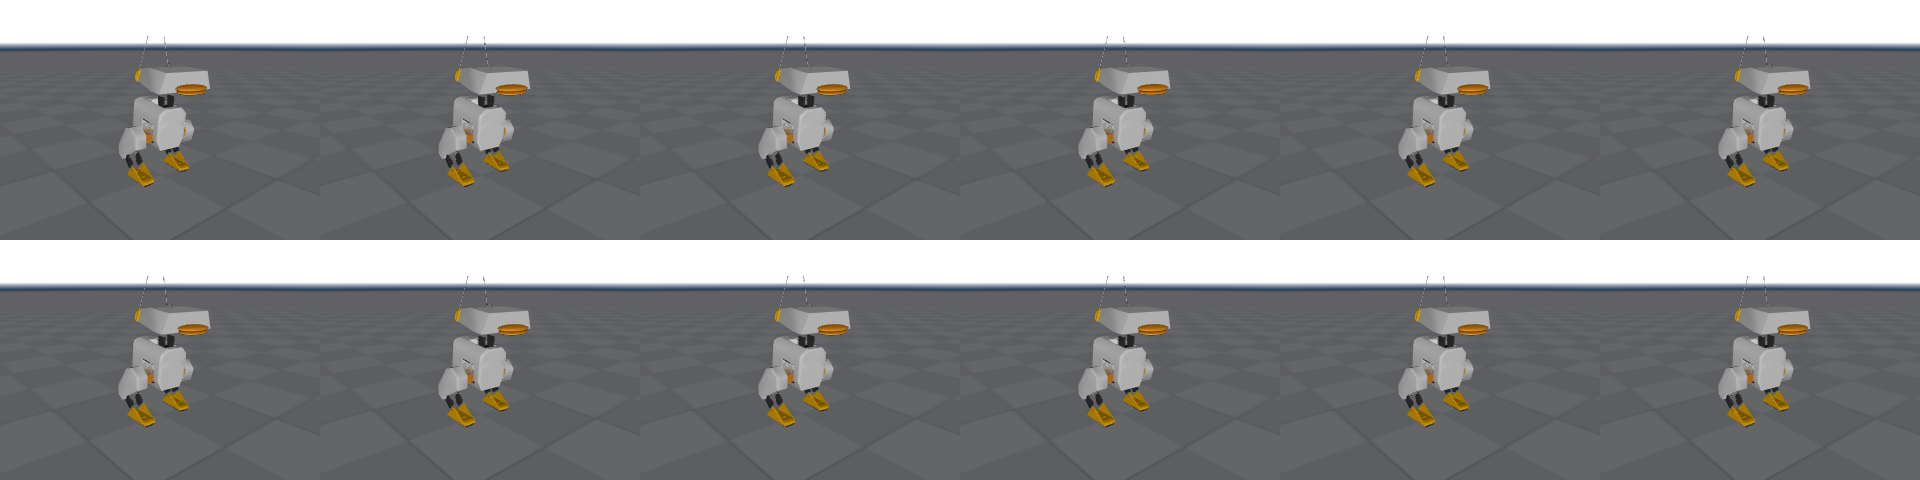
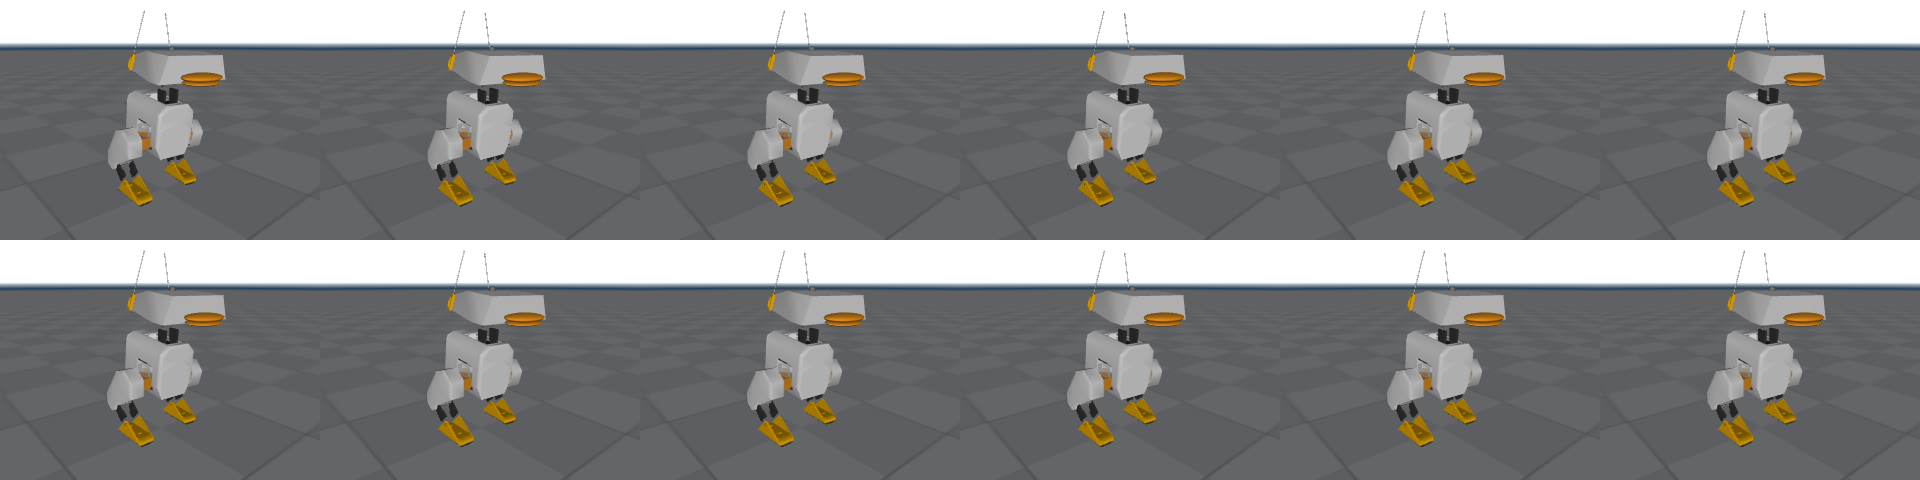
duckbody: ONNX export of skill brains and the onboard runtime, with tests
package.py bakes VecNormalize (mean/var/clip, SB3 epsilon) and the deterministic
actor into one ONNX graph (raw obs 60 -> action 11 in [-1,1]), checks it against
SB3 on 1000 SkillEnv observations (stand: max diff 1.2e-07) and writes
policy.onnx, model.json and MODEL.md per models/mid-<skill>/ (--skill, --all,
--from, --models).

runtime.py is the duck's controller: loads every brain, builds SkillEnv's
observation from a small sensor backend (SimBackend = MuJoCo), runs the current
skill at 50 Hz, command()/look()/say()/hear() for the personality layer, and
falls back to stand for skills without a brain yet. --demo runs a scripted show
(per-phase upright report, video + frame strip in duckbody/renders/).

test_runtime.py: obs equals SkillEnv's, ONNX equals SB3, command switching,
head rate limit, jaw follows audio, text commands.

Claude-Session: https://claude.ai/code/session_01JSSeToySaWWcdQvH7MCXQD

diff --git a/duckbody/test_runtime.py b/duckbody/test_runtime.py
@@ -1,0 +1,176 @@
+"""Tests for the onboard runtime and the ONNX export.
+
+    MUJOCO_GL=osmesa python duckbody/test_runtime.py        # needs models/mid-stand/policy.onnx (package.py)
+"""
+import sys
+import unittest
+from pathlib import Path
+
+import numpy as np
+
+HERE = Path(__file__).resolve().parent
+sys.path.insert(0, str(HERE))
+
+import runtime as rtm  # noqa: E402
+from mouth import MAX_OPEN, MouthSync, demo_voice  # noqa: E402
+from skills_env import SkillEnv  # noqa: E402
+
+STAND = rtm.MODELS / "mid-stand"
+
+
+class Stub:
+    """A fake brain: fixed small action, so tests don't depend on which skills are trained yet."""
+
+    def __init__(self, value=0.05):
+        self.value = value
+
+    def __call__(self, obs):
+        return np.full(11, self.value) * np.sin(obs[:11] * 10)
+
+
+def runtime_on(env, skills=("stand",), **kw):
+    brains, cfg = rtm.load_brains()
+    for s in skills:
+        brains.setdefault(s, brains["stand"])
+    be = rtm.SimBackend(cfg["servo_names"], model=env.model, data=env.data)
+    return rtm.DuckRuntime(be, brains=brains, config=cfg, log=None, **kw)
+
+
+@unittest.skipUnless((STAND / "policy.onnx").exists(), "run duckbody/package.py --skill stand first")
+class TestRuntime(unittest.TestCase):
+    def check_obs_match(self, task, command, vel=(0.0, 0.0, 0.0), skills=("stand",), steps=150):
+        env = SkillEnv(task=task, randomize=False, model_path=str(rtm.ROBOT_XML))
+        env.reset(seed=3)
+        rt = runtime_on(env, skills)
+        for c in command.split("+"):
+            rt.command(c, *vel)
+        self.assertEqual(rt.obs_command, env.command)
+        env.vel_cmd = rt.vel_cmd.copy()               # same command for both
+        worst = 0.0
+        for k in range(steps):
+            env.t, env.last_action = rt.gait_t, rt.last_action.copy()
+            a, b = rt.observe(), env._obs()
+            self.assertEqual(a.shape, (60,))
+            worst = max(worst, float(np.abs(a - b).max()))
+            rt.tick()
+        self.assertLess(worst, 1e-5, f"{task}: runtime obs differs from SkillEnv by {worst}")
+        return worst
+
+    def test_obs_equals_skillenv_stand(self):
+        self.check_obs_match("stand", "stand")
+
+    def test_obs_equals_skillenv_walk(self):           # velocity command and gait clock filled in
+        self.check_obs_match("walk", "walk", vel=(0.03, 0.01, 0.3), skills=("stand", "walk"))
+
+    def test_obs_equals_skillenv_sit_and_wake(self):
+        self.check_obs_match("sit", "sit", skills=("stand", "sit"))
+        self.check_obs_match("sit_to_stand", "sit+wake", skills=("stand", "sit", "sit_to_stand"))
+
+    def test_onnx_matches_sb3(self):
+        import package
+        model, norm = package.load_brain(STAND)
+        obs, _ = package.record_obs(model, norm, "stand", samples=300, seed=11)
+        brain = rtm.OnnxBrain(STAND / "policy.onnx")
+        got = np.array([brain(o) for o in obs])
+        ref = package.sb3_act(model, norm, obs)
+        self.assertLess(float(np.abs(got - ref).max()), 1e-5)
+        self.assertLessEqual(float(np.abs(got).max()), 1.0)
+
+    def test_command_switching(self):
+        env = SkillEnv(task="stand", randomize=False, model_path=str(rtm.ROBOT_XML))
+        env.reset(seed=0)
+        brains, cfg = rtm.load_brains()
+        stub = Stub()
+        brains.update(sit=stub, sit_to_stand=stub, walk=stub)
+        brains.pop("lie", None)
+        rt = rtm.DuckRuntime(rtm.SimBackend(cfg["servo_names"], model=env.model, data=env.data),
+                             brains=brains, config=cfg, log=None)
+        self.assertEqual(rt.skill, "stand")
+        rt.command("sleep")
+        self.assertEqual((rt.skill, rt.obs_command), ("sit", "sit"))
+        rt.tick()
+        rt.command("wake")                                    # sit_to_stand, then stand after 3 s
+        self.assertEqual((rt.skill, rt.obs_command), ("sit_to_stand", "stand"))
+        rt.run(2.9)
+        self.assertEqual(rt.skill, "sit_to_stand")
+        rt.run(0.2)
+        self.assertEqual(rt.skill, "stand")
+        rt.command("walk", vx=0.02, yaw=0.3)
+        self.assertEqual((rt.skill, rt.obs_command), ("walk", "walk"))
+        np.testing.assert_allclose(rt.vel_cmd, [0.02, 0, 0.3])
+        o = rt.observe()
+        self.assertEqual(o[46 + 1], 1.0)                      # one-hot: walk
+        np.testing.assert_allclose(o[53:56], [0.02, 0, 0.3], atol=1e-6)
+        np.testing.assert_allclose(o[56:58], [0, 1], atol=1e-6)   # gait clock starts at 0
+        rt.command("walk", vx=5.0)                            # clipped to the trained range
+        self.assertLessEqual(rt.vel_cmd[0], 0.25 * rt.L + 1e-9)
+        msg = rt.command("lie")                               # no brain: stand, and say so
+        self.assertEqual(rt.skill, "stand")
+        self.assertIn("no lie brain", msg)
+        self.assertIn("lie", rt.fallbacks)
+        np.testing.assert_allclose(rt.observe()[53:58], 0)    # standing: no velocity, no clock
+        rt.command("idle")
+        self.assertEqual(rt.skill, "stand")
+
+    def test_text_commands(self):
+        L = 0.7
+        self.assertEqual(rtm.parse("go to sleep")[0], "sleep")
+        self.assertEqual(rtm.parse("wake up")[0], "wake")
+        kind, args = rtm.parse("walk forward", L)
+        self.assertEqual(kind, "walk")
+        self.assertGreater(args["vel"]["vx"], 0)
+        kind, args = rtm.parse("turn left", L)
+        self.assertEqual(kind, "walk")
+        self.assertGreater(args["vel"]["yaw"], 0)
+        self.assertLess(rtm.parse("turn right", L)[1]["vel"]["yaw"], 0)
+        self.assertEqual(rtm.parse("say hello"), ("say", {"text": "hello"}))
+        self.assertEqual(rtm.parse("lie down")[0], "lie")
+        self.assertEqual(rtm.parse("stop")[0], "stand")
+        self.assertIsNone(rtm.parse("blorp"))
+        self.assertEqual(rtm.clauses("sit, then wake up and walk forward"), ["sit", "wake up", "walk forward"])
+
+    def test_head_rate_limit(self):
+        env = SkillEnv(task="stand", randomize=False, model_path=str(rtm.ROBOT_XML))
+        env.reset(seed=0)
+        rt = runtime_on(env)
+        rt.look(1.0)
+        rt.tick()
+        self.assertAlmostEqual(rt.targets[rt.head], 2.0 / 50, places=6)
+        rt.run(1.0)
+        self.assertAlmostEqual(rt.targets[rt.head], 1.0, places=6)
+
+    def test_jaw_follows_audio(self):
+        env = SkillEnv(task="stand", randomize=False, model_path=str(rtm.ROBOT_XML))
+        env.reset(seed=0)
+        rt = runtime_on(env)
+        sr = 22050
+        audio, loud = demo_voice(seconds=2.0, sr=sr)
+        rt.say(audio, sr)
+        ref = MouthSync(sr)
+        jaw, want, loudness = [], [], []
+        for k in range(100):                                  # 2 s of speech, 20 ms per tick
+            rt.tick()
+            chunk = audio[k * ref.hop:(k + 1) * ref.hop]
+            want.append(ref.feed(chunk))
+            jaw.append(env.data.ctrl[rt.jaw])                 # what went to the jaw servo
+            loudness.append(np.abs(loud[k * ref.hop:(k + 1) * ref.hop]).mean())
+        jaw = np.array(jaw)
+        np.testing.assert_allclose(jaw, want, atol=1e-9)      # exactly MouthSync on the same audio
+        self.assertGreater(jaw.max(), 0.5 * MAX_OPEN)         # opens on syllables
+        self.assertGreater(np.corrcoef(jaw, loudness)[0, 1], 0.5)
+        rt.run(0.6)                                           # speech over: mouth closes
+        self.assertFalse(rt.speaking)
+        self.assertLess(env.data.ctrl[rt.jaw], 0.02)
+
+    def test_stand_brain_keeps_duck_up(self):
+        rt = rtm.DuckRuntime(log=None)
+        rt.look(1.5)
+        audio, _ = demo_voice(seconds=2.0)
+        rt.say(audio, 22050)
+        ups = []
+        rt.run(4.0, every=lambda r: ups.append(r.backend.posture()["up"]))
+        self.assertGreater(min(ups), 0.9)
+
+
+if __name__ == "__main__":
+    unittest.main(verbosity=2)

diff --git a/duckbody/runtime.py b/duckbody/runtime.py
@@ -158,7 +158,7 @@ class SimBackend(Backend):
             self.camera = self.mj.MjvCamera()
             self.camera.type = self.mj.mjtCamera.mjCAMERA_TRACKING
             self.camera.trackbodyid = self.trunk
-            self.camera.distance, self.camera.elevation, self.camera.azimuth = 0.7, -15, 140
+            self.camera.distance, self.camera.elevation, self.camera.azimuth = 0.55, -15, 140
         self.renderer.update_scene(self.data, self.camera)
         return self.renderer.render()
 
@@ -186,6 +186,9 @@ def load_brains(models_dir=MODELS):
         for k in ("servo_names", "policy_servos", "obs_size", "action_size", "home", "action_scale", "commands"):
             if c[k] != cfg[k]:
                 raise ValueError(f"{p}: {k} differs from the other brains; every skill must share one layout")
+        zip_ = p.parent / "policy.zip"
+        if zip_.exists() and zip_.stat().st_mtime > p.stat().st_mtime + 1:
+            print(f"warning: {zip_} is newer than policy.onnx; re-run duckbody/package.py --skill {c['skill']}")
         brains[c["skill"]] = OnnxBrain(p)
     if cfg is None:
         raise FileNotFoundError(f"no brains in {models_dir}/mid-*/policy.onnx: run duckbody/package.py --all")
@@ -458,8 +461,8 @@ DEMO = [  # (name, what the personality does, seconds, expectation)
 ]
 
 
-def demo(out_dir=HERE / "renders", render=True, script=None):
-    rt = DuckRuntime(log=print)
+def demo(out_dir=HERE / "renders", render=True, script=None, models_dir=MODELS):
+    rt = DuckRuntime(models_dir=models_dir, log=print)
     be = rt.backend
     print(f"brains: {', '.join(sorted(rt.brains))}")
     frames, strip, results = [], [], []
@@ -520,9 +523,10 @@ def main():
     ap.add_argument("--demo", action="store_true", help="scripted show in the sim")
     ap.add_argument("--script", help='text commands, e.g. "go to sleep; wake up; walk forward" (4 s each)')
     ap.add_argument("--no-render", action="store_true")
+    ap.add_argument("--models", default=str(MODELS), help="folder with mid-<skill>/policy.onnx brains")
     a = ap.parse_args()
     if a.demo or a.script:
-        demo(render=not a.no_render, script=a.script)
+        demo(render=not a.no_render, script=a.script, models_dir=Path(a.models))
     else:
         ap.print_help()
 

diff --git a/duckbody/package.py b/duckbody/package.py
@@ -3,6 +3,7 @@
     python duckbody/package.py --skill stand          # models/mid-stand/policy.onnx + model.json + MODEL.md
     python duckbody/package.py --all                  # every models/mid-*/ that has a policy.zip
     python duckbody/package.py --skill sit --from duckbody/runs/mid_sit/best   # brain from another folder
+    python duckbody/package.py --all --models /tmp/models                      # another models root
 
 One graph does everything the training loop did around the network (LESSONS §3):
 
@@ -203,10 +204,10 @@ action = brain.run(None, {{"obs": obs[None].astype("float32")}})[0][0]
 """
 
 
-def package(skill, src=None, samples=1000):
+def package(skill, src=None, samples=1000, models=MODELS):
     if skill not in SKILL_TASKS:
         raise SystemExit(f"unknown skill {skill!r}; one of {SKILL_TASKS}")
-    out = MODELS / f"mid-{skill}"
+    out = Path(models) / f"mid-{skill}"
     src = Path(src) if src else out
     out.mkdir(parents=True, exist_ok=True)
     if src.resolve() != out.resolve():
@@ -246,14 +247,15 @@ def main():
     g.add_argument("--all", action="store_true", help="every models/mid-*/ with a policy.zip")
     ap.add_argument("--from", dest="src", help="take policy.zip + vecnormalize.pkl from this folder")
     ap.add_argument("--samples", type=int, default=1000)
+    ap.add_argument("--models", default=str(MODELS), help="models root (default: repo models/)")
     a = ap.parse_args()
     torch.set_num_threads(1)
     if a.all:
-        skills = sorted(p.name[4:] for p in MODELS.glob("mid-*") if (p / "policy.zip").exists())
-        results = {s: package(s, samples=a.samples) for s in skills}
+        skills = sorted(p.name[4:] for p in Path(a.models).glob("mid-*") if (p / "policy.zip").exists())
+        results = {s: package(s, samples=a.samples, models=a.models) for s in skills}
         print("summary:", ", ".join(f"{s} {e:.1e}" for s, e in results.items()))
     else:
-        package(a.skill, a.src, a.samples)
+        package(a.skill, a.src, a.samples, a.models)
 
 
 if __name__ == "__main__":
